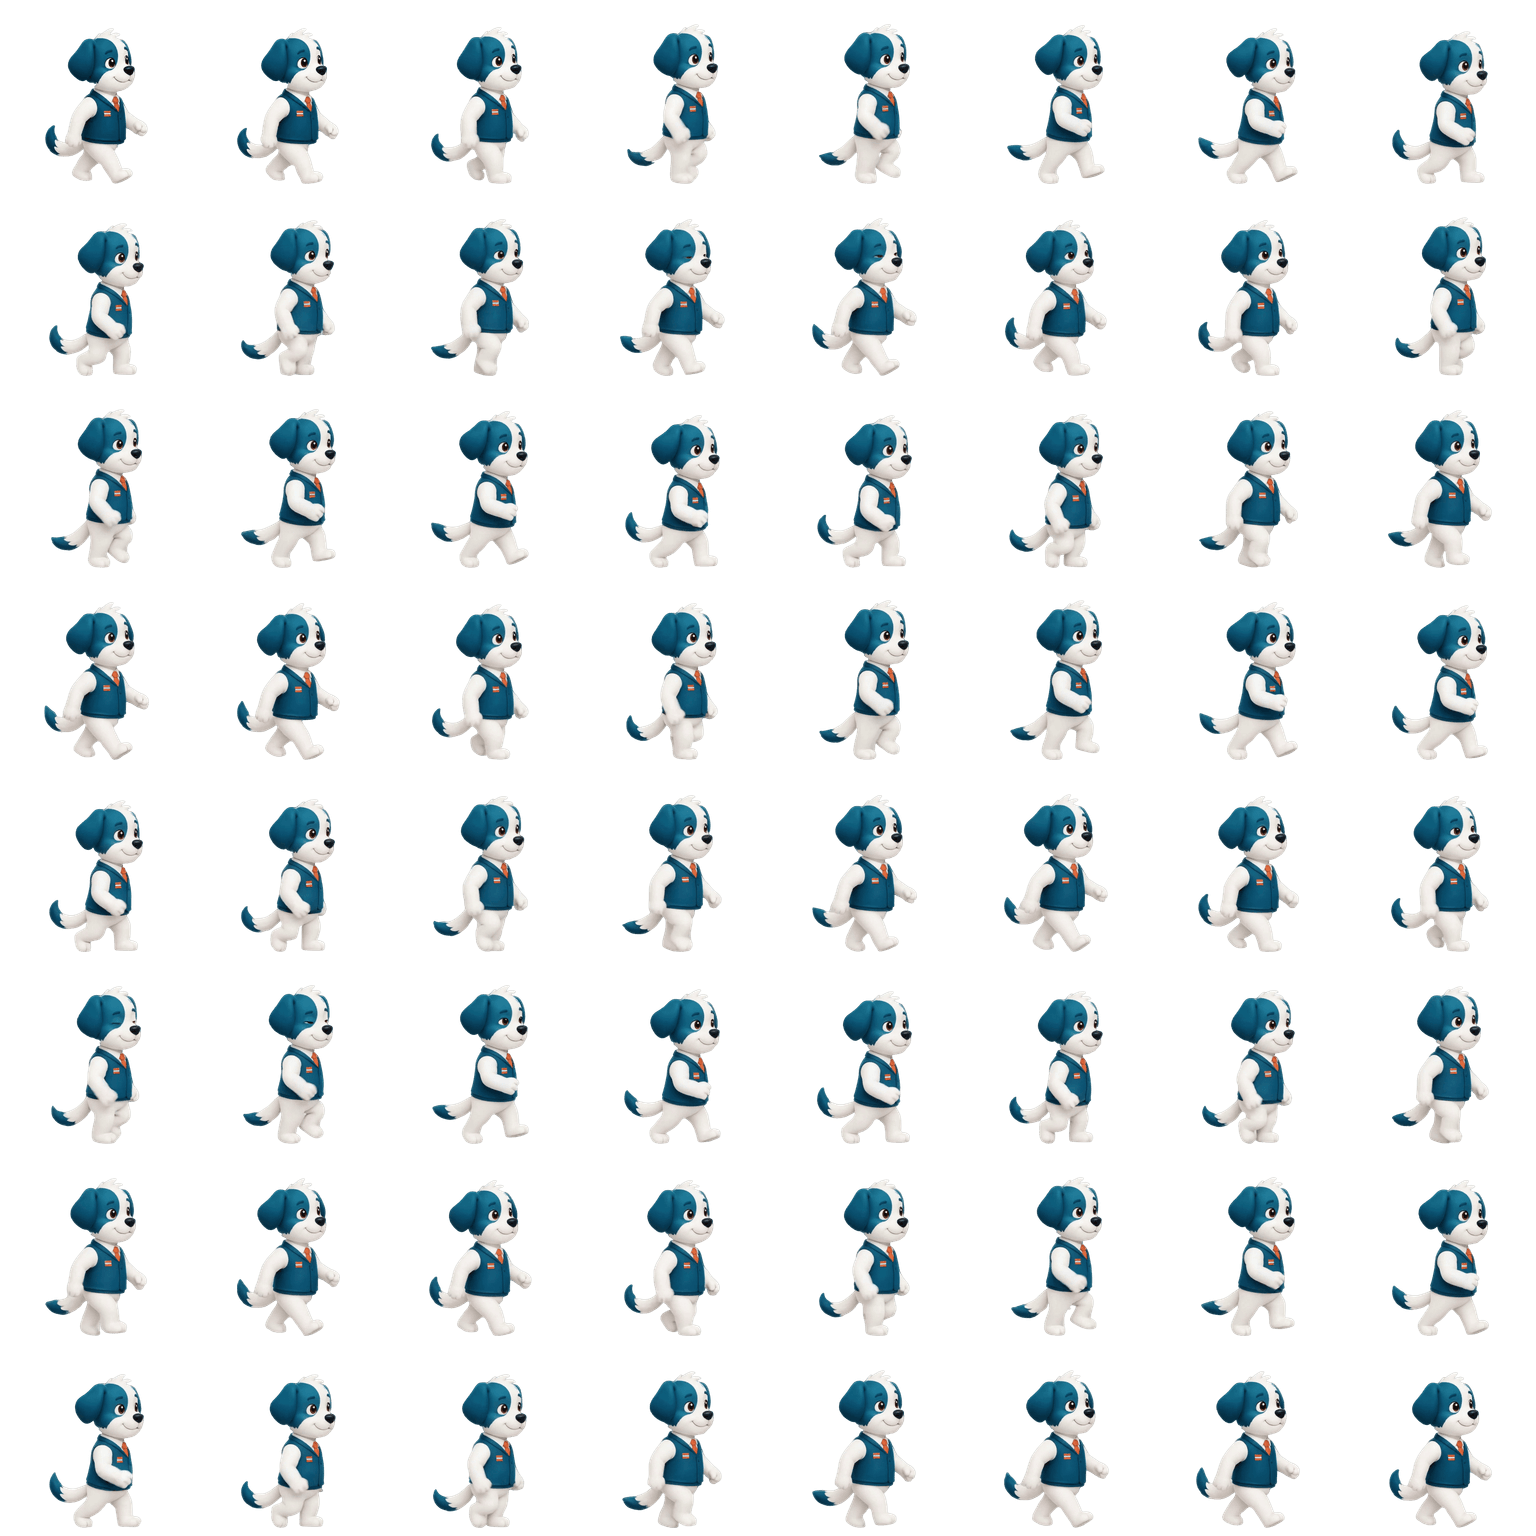
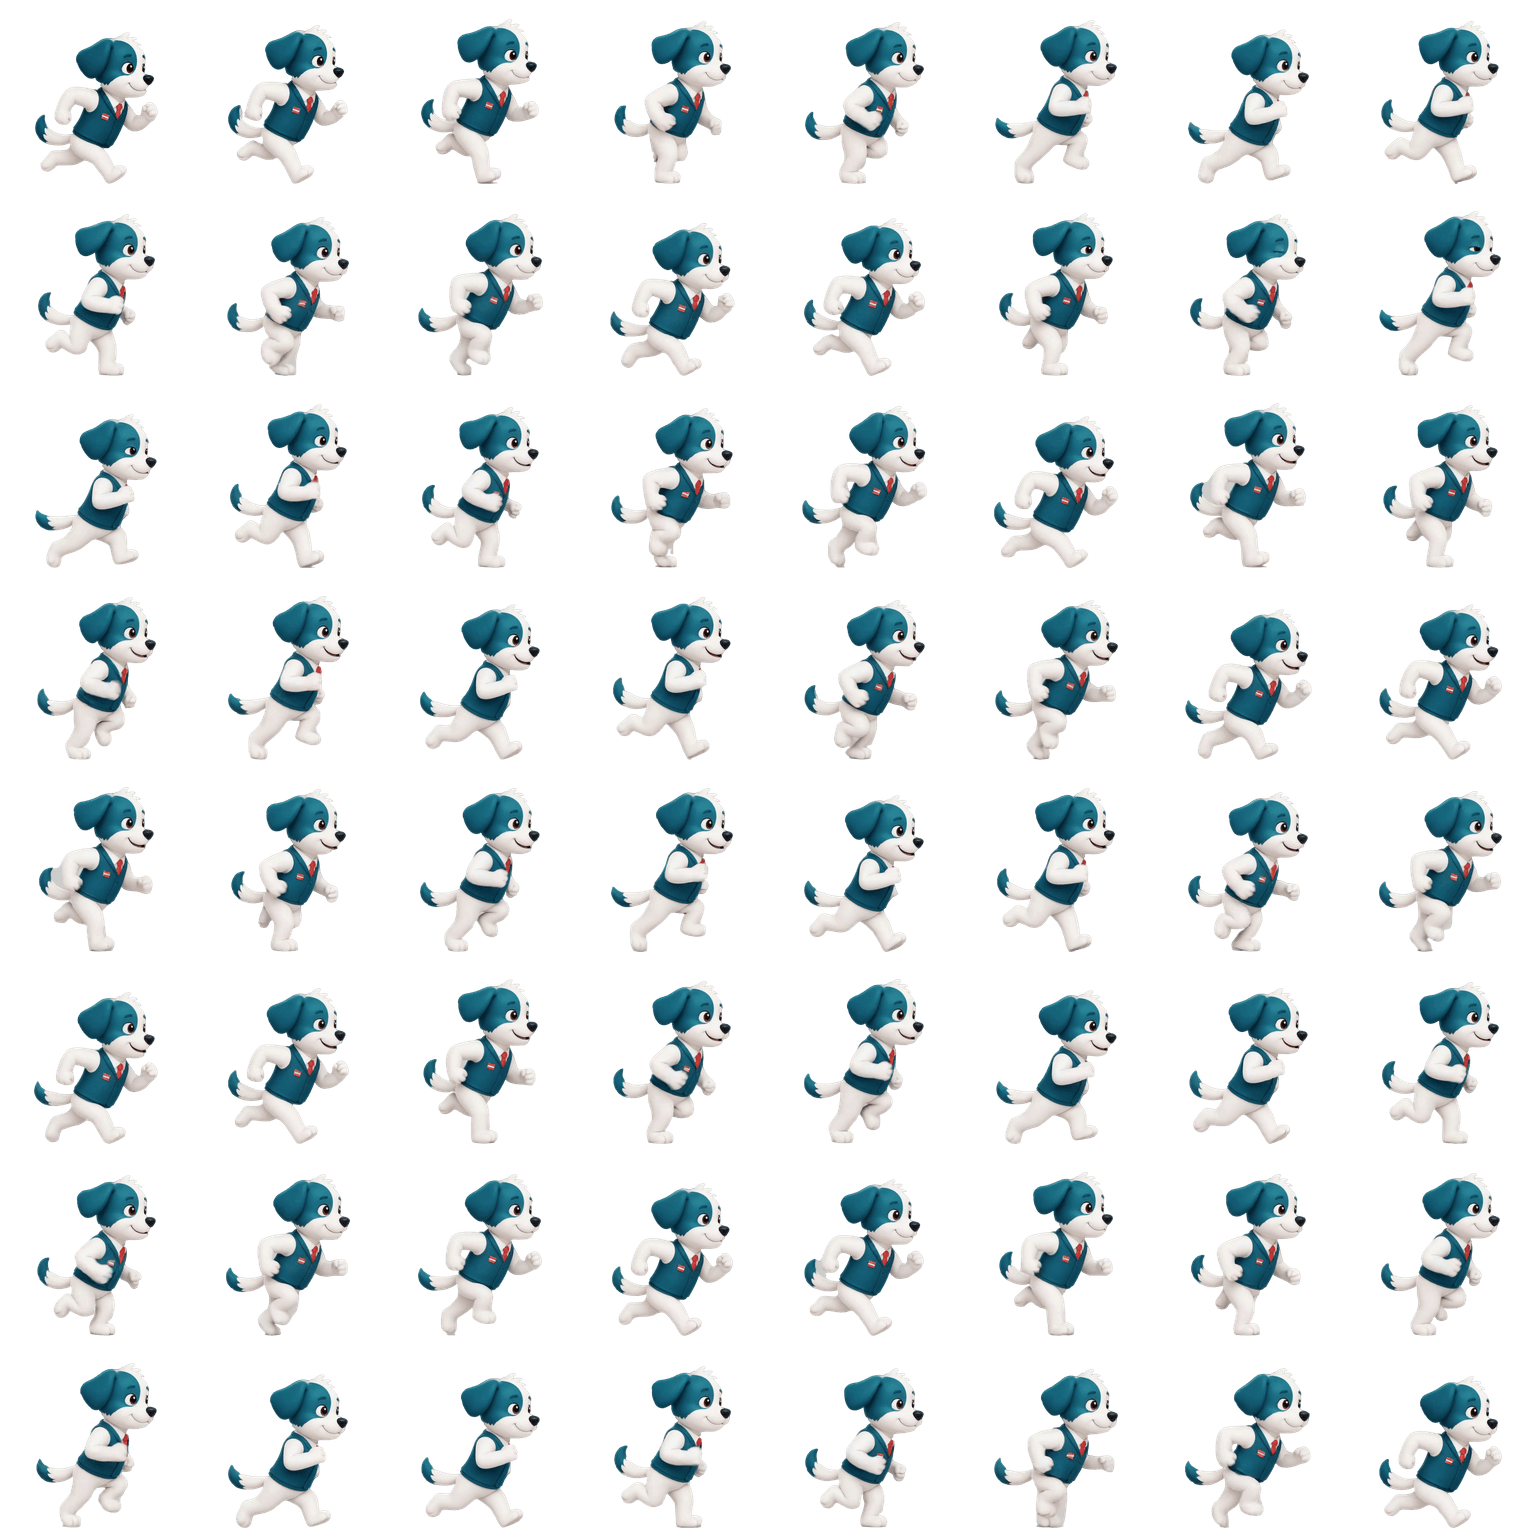
fix(fredrun): improve Fred animations

diff --git a/src/lib/fredrun-ui.test.ts b/src/lib/fredrun-ui.test.ts
@@ -17,6 +17,7 @@ const manifest = JSON.parse(readFileSync(fileURLToPath(new URL("../../public/fre
   source: {
     archive: { sha256: string; includedAnimations: string[] };
     jumpSheet: { sha256: string; sourceGrid: string; sourceFrameCount: number; selectedFrameIndices: number[] };
+    runSheet: { file: string; sha256: string; sourceGrid: string; sourceFrameCount: number };
   };
   atlas: {
     cellSize: number;
@@ -166,7 +167,14 @@ const superfredManifest = JSON.parse(readFileSync(
     frameCount: number;
     anchor: string;
     animations: Record<"walk" | "jump" | "victory", {
-      spritesheetId: string;
+      sourceKind?: string;
+      sourceFile?: string;
+      sourceSha256?: string;
+      spritesheetId?: string;
+      sourceGrid?: string;
+      sourceFrameCount?: number;
+      sourceFrames?: number[];
+      phaseFrames?: Record<"takeoff" | "superman" | "landing", number[]>;
       columns: number;
       rows: number;
       frameCount: number;
@@ -374,7 +382,7 @@ describe("Fredrun UI surface", () => {
 
   it("ships the three runtime atlases while preserving source provenance", () => {
[1 lines of base64/hex data omitted]
-    expect(manifest.source.archive.includedAnimations).toEqual(["walk_right", "Victory"]);
+    expect(manifest.source.archive.includedAnimations).toEqual(["Victory"]);
     expect(manifest.source.jumpSheet).toMatchObject({
[1 lines of base64/hex data omitted]
       sourceGrid: "7x7",
@@ -383,6 +391,12 @@ describe("Fredrun UI surface", () => {
     expect(manifest.source.jumpSheet.selectedFrameIndices).toHaveLength(24);
     expect(manifest.source.jumpSheet.selectedFrameIndices[0]).toBe(0);
     expect(manifest.source.jumpSheet.selectedFrameIndices.at(-1)).toBe(48);
+    expect(manifest.source.runSheet).toEqual({
+      file: "Fred-run.png",
[1 lines of base64/hex data omitted]
+      sourceGrid: "8x8",
+      sourceFrameCount: 64,
+    });
     expect(manifest.atlas).toMatchObject({
       cellSize: 192,
       anchor: "bottom-center",
@@ -473,20 +487,37 @@ describe("Fredrun UI surface", () => {
     expect(Object.keys(superfredManifest.atlas.animations)).toEqual(["walk", "jump", "victory"]);
     for (const animation of Object.values(superfredManifest.atlas.animations)) {
       expect(animation).toMatchObject({ columns: 8, rows: 8, frameCount: 64 });
-      expect(animation.spritesheetId).toMatch(/^cms/);
       expect(animation.outputSha256).toMatch(/^[A-F0-9]{64}$/);
       expect(statSync(fileURLToPath(new URL(
         `../../public/fredrun/superfred/${animation.outputFile}`,
         import.meta.url,
       ))).size).toBe(animation.bytes);
     }
+    expect(superfredManifest.atlas.animations.walk.spritesheetId).toMatch(/^cms/);
+    expect(superfredManifest.atlas.animations.victory.spritesheetId).toMatch(/^cms/);
+    expect(superfredManifest.atlas.animations.jump).toMatchObject({
+      sourceKind: "user-provided-spritesheet",
+      sourceFile: "1786815054521_67465ed8-cf75-4fdb-be5f-cb1cca53584b.png",
[1 lines of base64/hex data omitted]
+      sourceGrid: "8x8",
+      sourceFrameCount: 64,
+      phaseFrames: {
+        takeoff: [0, 24],
+        superman: [25, 40],
+        landing: [41, 63],
+      },
+    });
+    expect(superfredManifest.atlas.animations.jump.sourceFrames).toEqual(
+      Array.from({ length: 64 }, (_, index) => index),
+    );
     const totalBytes = Object.values(superfredManifest.atlas.animations).reduce((total, animation) => (
       total + animation.bytes
     ), 0);
     expect(totalBytes).toBeLessThanOrEqual(3 * 1024 * 1024);
     expect(profileSource).toContain('export const FREDRUN_CHARACTER_IDS = ["fred", "frida", "superfred"] as const');
     expect(viewSource).toContain('walk: { source: "/fredrun/superfred/walk.webp", columns: 8, frameCount: 64, fps: 16 }');
-    expect(viewSource).toContain('jump: { source: "/fredrun/superfred/jump.webp?v=second-variant-restored-1", columns: 8, frameCount: 64, fps: 16 }');
+    expect(viewSource).toContain('const JUMP_ANIMATION_DURATION = 0.82;');
+    expect(viewSource).toContain('jump: { source: "/fredrun/superfred/jump.webp?v=superman-jump-1", columns: 8, frameCount: 64, fps: 16 }');
     expect(viewSource).toContain('victory: { source: "/fredrun/superfred/victory.webp", columns: 8, frameCount: 64, fps: 16 }');
     expect(profileSource).toContain('superfred: { name: "Superfred", description: "Mit Cape und Extrapower", price: FREDRUN_SUPERFRED_PRICE }');
     expect(stylesSource).toContain("grid-template-columns: repeat(3, minmax(0, 1fr));");

diff --git a/src/components/fredrun-view.tsx b/src/components/fredrun-view.tsx
@@ -121,7 +121,7 @@ const characterSpriteLayouts: Record<FredRunCharacterId, Record<SpriteKey, Chara
   },
   superfred: {
     walk: { source: "/fredrun/superfred/walk.webp", columns: 8, frameCount: 64, fps: 16 },
-    jump: { source: "/fredrun/superfred/jump.webp?v=second-variant-restored-1", columns: 8, frameCount: 64, fps: 16 },
+    jump: { source: "/fredrun/superfred/jump.webp?v=superman-jump-1", columns: 8, frameCount: 64, fps: 16 },
     victory: { source: "/fredrun/superfred/victory.webp", columns: 8, frameCount: 64, fps: 16 },
   },
 };
